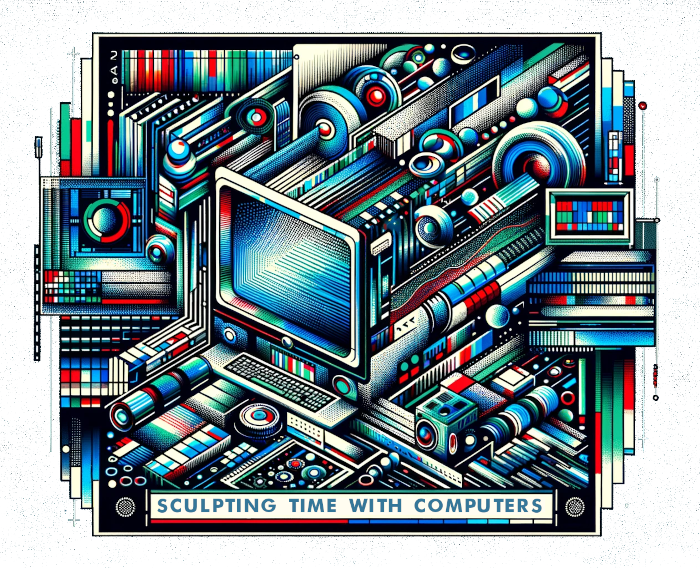
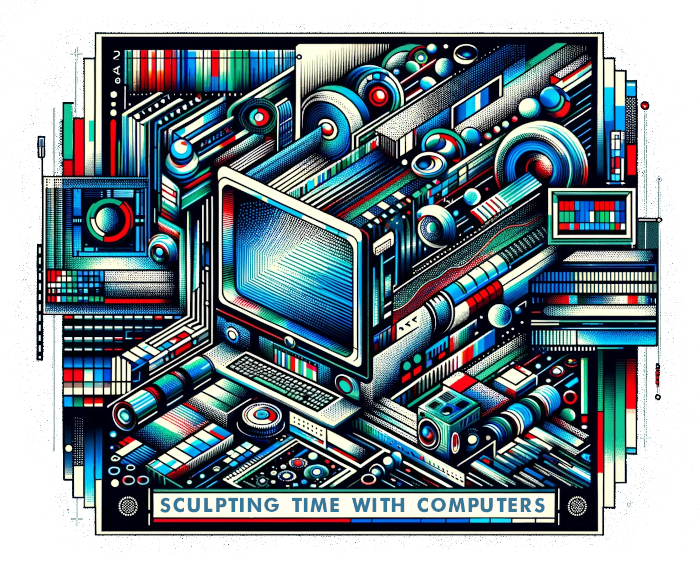
moved programme to its own page, modified some images

diff --git a/index.html b/index.html
@@ -53,7 +53,7 @@
               Following the success of our <a href="https://garden.movingpixel.net/public_notes/Sculpting-Time-with-Computers/Sculpting-Time-With-Computers/">initial gathering in London last year</a>, in this second edition of the <em>Sculpting Time with Computers</em> workshop we aim to formalise our research network and strengthen the interdisciplinary dialogue among academics and industry professionals working on the <b>computational modelling of audiovisual cultural phenomena</b>.
             </p>
              <p class="text text-large">
-              The workshop will convene a select group of participants for two days of discussion and exchange about computational approaches to time-based media, with a focus on films and television. The objectives of this event are 1) to <b>map ongoing research in the field</b>, sharing data, methods, and approaches, and 2) to collaboratively draft a road map for future activities with a view to <b>integrate into a permanent research network</b>.
+              The workshop will convene a select group of participants for two days of discussion and exchange about computational approaches to time-based media, with a focus on films and television. The objectives of this event are 1) to <b>map ongoing research in the field</b>, sharing data, methods, and approaches, and 2) to collaboratively draft a road map for future activities with a view to <b>integrate into a permanent research network</b>. See the <a href="programme.html">draft programme</a> for more information.
              </p>
              <p class="text text-large">
               Our network links scholars working across disciplines in the arts, sciences, and humanities, in the fields of film and media, computer science and engineering, history, cultural analytics and digital humanities, with professionals in the cultural sector, including audiovisual archives and creative industries. <b>Join us!</b>
@@ -73,38 +73,11 @@
         <!-------------------------------------------------------------------------------------------->
         <div class="flex-row">
           <div class="flex-item flex-column">
-            <h2 id="programme">Draft Programme</h2>
-            <h3 class="add-top-margin">Day 1: Thursday 23 May, 2024</h3>
-            <hr>
-            <ul class="spacious-list text-large">
-              <li>13:00 - 13:10 Welcome and Introduction</li>
-              <li>13:10 - 13:45 Session 1: Three Kinds of Time</li>
-              <li>13:45 - 15:00 Session 2: Widening the Scope</li>
-              <li>15:00 - 15:15 Coffee Break</li>
-              <li>15:15 - 17:00 Session 3: Sculpting Time(s)</li>
-            </ul>
-
-            <h3>Day 2: Friday 24 May, 2024</h3>
-            <hr>
-            <ul class="spacious-list text-large">
-              <li>10:00 - 13:00 Morning Sessions
-                <ul class="add-top-margin">
-                  <li>10:00 - 11:30 Session 4: Applications</li>
-                  <li>11:30 - 11:45 Coffee Break</li>
-                  <li>11:45 - 13:00 Session 5: Canvassing the Landscape</li>                        
-                </ul>
-              </li>
-              <li>13:00 - 14:00 Lunch</li>
-              <li>14:00 - 16:00 Afternoon Sessions
-                <ul class="add-top-margin">
-                  <li>14:00 - 15:30 Session 6: Frameworks for Collaboration</li>
-                  <li>15:30 - 16:00 Closing Remarks and Next Steps</li>                     
-                </ul>
-              </li>
-            </ul>
+            <h2 id="register">Programme</h2>
+            <a class="custom-button custom-button-info" href="programme.html" target="_self">Programme</a>
           </div>
         </div>
-        <!-------------------------------------------------------------------------------------------->      
+        <!-------------------------------------------------------------------------------------------->    
       </div>
     </div>
     <div class="footer-container"></div>
